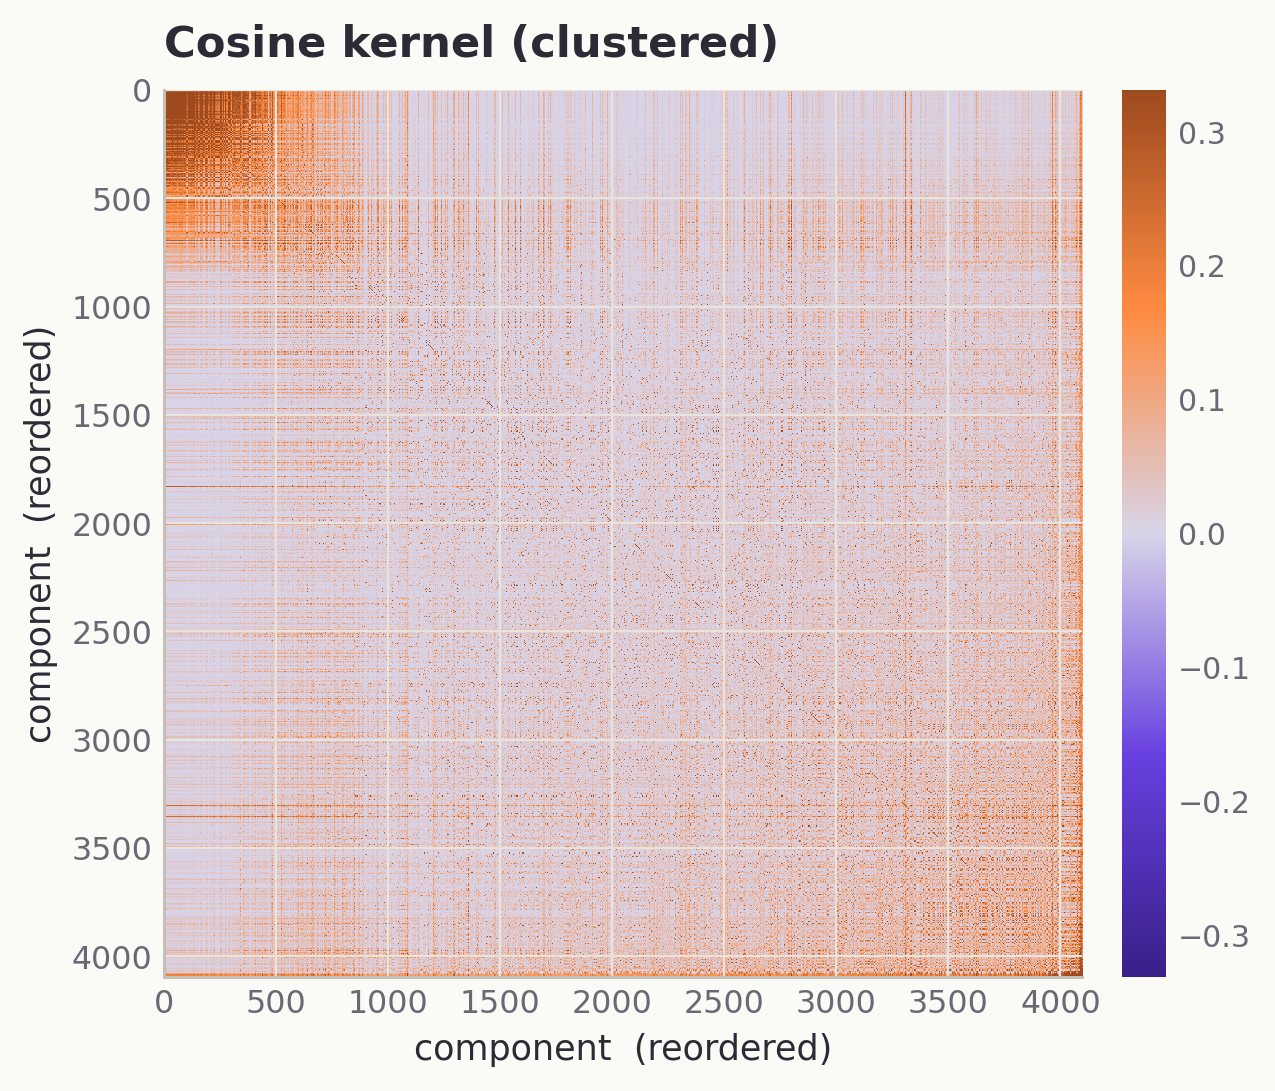
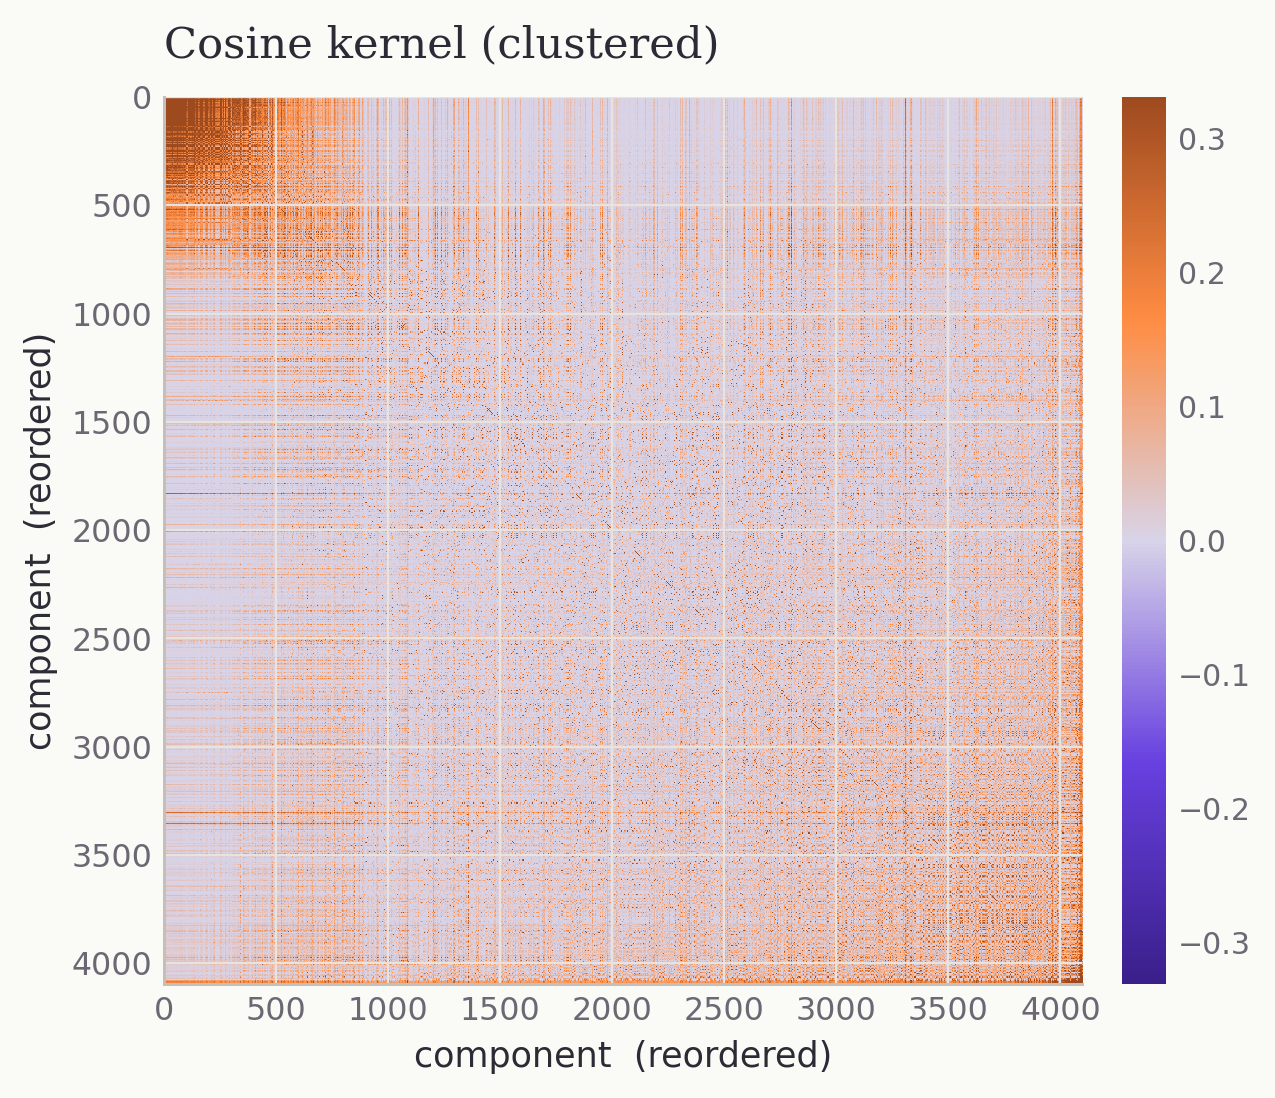
typography: serif regular-weight titles for editorial feel
The previous bold sans titles read as abrasive notebook output rather
than research-blog text. Softened across the whole plot suite:

- plotting._preferred_title_font: picks the best available serif
  (Source Serif Pro / IBM Plex Serif / DejaVu Serif fallback) and
  prepends it to font.serif so any helper that wants the editorial
  face can just pass family="serif".
- plotting._set_title / _suptitle: shared title-styling helpers
  applied across every plot function. Regular weight, ink colour,
  left-aligned, with extra titlepad for breathing room.
- All existing helper titles routed through _set_title; suptitle in
  the heatmap pair routed through _suptitle.
- per_layer.py titles likewise routed through plotting._set_title.

Real-data v2 plots regenerated; the same change is queued for the
QK sweep next.

diff --git a/vpd_gate_geometry/plotting.py b/vpd_gate_geometry/plotting.py
@@ -70,6 +70,21 @@ def _preferred_font() -> str:
     return "DejaVu Sans"
 
 
+def _preferred_title_font() -> str:
+    """Pick a softer, more editorial face for plot titles.
+
+    Sans-serif body + serif title is a common research-blog pattern
+    (e.g. Goodfire research posts). DejaVu Serif is the safe fallback
+    that ships with matplotlib's default font stack.
+    """
+    available = {f.name for f in fm.fontManager.ttflist}
+    for cand in ("Source Serif Pro", "Source Serif 4", "IBM Plex Serif",
+                 "Charter", "Georgia", "PT Serif", "DejaVu Serif"):
+        if cand in available:
+            return cand
+    return _preferred_font()
+
+
 GOODFIRE_RC: dict[str, object] = {
     "figure.dpi": 140,
     "savefig.dpi": 240,
@@ -82,10 +97,10 @@ GOODFIRE_RC: dict[str, object] = {
     "axes.spines.right": False,
     "axes.labelcolor":   PALETTE["ink"],
     "axes.labelsize":    10.5,
-    "axes.titlesize":    13,
-    "axes.titleweight":  "semibold",
+    "axes.titlesize":    12.5,
+    "axes.titleweight":  "regular",
     "axes.titlecolor":   PALETTE["ink"],
-    "axes.titlepad":     10,
+    "axes.titlepad":     12,
     "axes.titlelocation": "left",
     "axes.grid":         True,
     "axes.axisbelow":    True,
@@ -109,7 +124,38 @@ GOODFIRE_RC: dict[str, object] = {
 
 def set_style() -> None:
     plt.rcParams["font.family"] = _preferred_font()
+    # Put the preferred serif first in the serif stack so that any
+    # plot helper that wants an editorial title face can just call
+    # `ax.set_title(..., family="serif")` and pick it up automatically.
+    serif = _preferred_title_font()
+    plt.rcParams["font.serif"] = [serif] + plt.rcParams.get("font.serif", [])
     plt.rcParams.update(GOODFIRE_RC)
+
+
+# Title styling shared by every plot helper. Editorial serif when one is
+# available, regular weight, ink colour, left-aligned, with breathing room.
+_TITLE_KW: dict[str, object] = {
+    "family": "serif",
+    "weight": "regular",
+    "color": PALETTE["ink"],
+    "loc": "left",
+    "pad": 12,
+}
+_SUPTITLE_KW: dict[str, object] = {
+    "family": "serif",
+    "weight": "regular",
+    "color": PALETTE["ink"],
+    "x": 0.06,
+    "ha": "left",
+}
+
+
+def _set_title(ax, text: str, fontsize: float = 13) -> None:
+    ax.set_title(text, fontsize=fontsize, **_TITLE_KW)
+
+
+def _suptitle(fig, text: str, fontsize: float = 13.5) -> None:
+    fig.suptitle(text, fontsize=fontsize, **_SUPTITLE_KW)
 
 
 def _to_np(t: torch.Tensor) -> np.ndarray:
@@ -130,7 +176,7 @@ def plot_gate_activity_histogram(mean_per_component: torch.Tensor, out_path: Pat
     ax.set_yscale("log")
     ax.set_xlabel("mean causal importance per component (g̅)")
     ax.set_ylabel("# components  (log scale)")
-    ax.set_title("Component activity")
+    _set_title(ax, "Component activity")
     ax.margins(x=0)
     save_close(fig, out_path)
 
@@ -162,7 +208,7 @@ def plot_spectrum(
         ax.legend(loc="upper right", borderpad=0.4)
     ax.set_xlabel("eigenvalue index")
     ax.set_ylabel("eigenvalue")
-    ax.set_title(title)
+    _set_title(ax, title)
     ax.set_yscale("symlog", linthresh=1e-4)
     if annotation:
         ax.text(
@@ -210,13 +256,16 @@ def plot_kernel_real_vs_null(
             arr, cmap=DIVERGING_CMAP, vmin=-vmax, vmax=vmax,
             interpolation="nearest", aspect="equal",
         )
-        ax.set_title(panel_label, fontsize=11, color=PALETTE["ink"], loc="center")
+        ax.set_title(
+            panel_label, fontsize=11, family="serif", weight="regular",
+            color=PALETTE["muted"], loc="center",
+        )
         ax.set_xlabel("component  (reordered)")
     axes[0].set_ylabel("component  (reordered)")
     cb = fig.colorbar(im, ax=axes, fraction=0.025, pad=0.025)
     cb.outline.set_visible(False)
     cb.ax.tick_params(colors=PALETTE["muted"], labelsize=9)
-    fig.suptitle(title, fontsize=13, color=PALETTE["ink"], weight="semibold", x=0.05, ha="left")
+    _suptitle(fig, title)
     save_close(fig, out_path)
 
 
@@ -236,7 +285,7 @@ def plot_kernel_heatmap(
     fig, ax = plt.subplots(figsize=(5.4, 4.8))
     im = ax.imshow(arr, cmap=DIVERGING_CMAP, vmin=-vmax, vmax=vmax,
                    interpolation="nearest", aspect="auto")
-    ax.set_title(title)
+    _set_title(ax, title)
     ax.set_xlabel("component  (reordered)")
     ax.set_ylabel("component  (reordered)")
     cb = fig.colorbar(im, ax=ax, fraction=0.046, pad=0.04)
@@ -274,7 +323,7 @@ def plot_spectral_embedding(
         cb.ax.tick_params(colors=PALETTE["muted"], labelsize=9)
     ax.set_xlabel("e₁")
     ax.set_ylabel("e₂")
-    ax.set_title(title)
+    _set_title(ax, title)
     save_close(fig, out_path)
 
 
@@ -289,7 +338,7 @@ def plot_token_r2_histogram(r2: torch.Tensor, out_path: Path) -> None:
             color=PALETTE["ink"], fontsize=9.5, ha="left", va="top")
     ax.set_xlabel("R²  explained by token identity  (per component)")
     ax.set_ylabel("# components")
-    ax.set_title("Token-identity explained variance")
+    _set_title(ax, "Token-identity explained variance")
     ax.margins(x=0)
     save_close(fig, out_path)
 
@@ -305,7 +354,7 @@ def plot_spectrum_raw_vs_residual(
     ax.set_yscale("symlog", linthresh=1e-4)
     ax.set_xlabel("eigenvalue index")
     ax.set_ylabel("eigenvalue")
-    ax.set_title("Raw vs token-residualized spectrum")
+    _set_title(ax, "Raw vs token-residualized spectrum")
     ax.legend(loc="upper right", borderpad=0.4)
     save_close(fig, out_path)
 
@@ -330,7 +379,7 @@ def plot_lag_profile(
     )
     ax.set_xlabel("lag τ  (positions B − positions A)")
     ax.set_ylabel(label)
-    ax.set_title("Lagged co-importance profile")
+    _set_title(ax, "Lagged co-importance profile")
     save_close(fig, out_path)
 
 
@@ -385,7 +434,7 @@ def plot_lag_profile_with_null(
     ax.axvline(0, color=PALETTE["muted"], lw=0.7, linestyle=":", zorder=2)
     ax.set_xlabel("lag τ  (positions B − positions A)")
     ax.set_ylabel("|r|")
-    ax.set_title(title)
+    _set_title(ax, title)
     ax.legend(loc="upper right", borderpad=0.4)
     save_close(fig, out_path)
 
@@ -438,5 +487,5 @@ def plot_top_lagged_pair_heatmap(
     ax.invert_yaxis()
     ax.axvline(0, color=PALETTE["axis"], lw=0.7, zorder=1)
     ax.set_xlabel("signed |r| at best τ  (max statistic, see caveat)")
-    ax.set_title(f"Top {n} lagged component pairs")
+    _set_title(ax, f"Top {n} lagged component pairs")
     save_close(fig, out_path)

diff --git a/vpd_gate_geometry/per_layer.py b/vpd_gate_geometry/per_layer.py
@@ -103,7 +103,7 @@ def main(argv: list[str] | None = None) -> int:
         ax.set_yscale("symlog", linthresh=1e-4)
         ax.set_xlabel("eigenvalue index")
         ax.set_ylabel("eigenvalue")
-        ax.set_title(f"Layer {layer}: per-module cosine spectrum")
+        plotting._set_title(ax, f"Layer {layer}: per-module cosine spectrum")
         ax.legend(fontsize=8, ncol=2)
         plotting.save_close(fig, args.output_dir / f"layer_{layer}_spectra.png")
 
@@ -118,7 +118,7 @@ def main(argv: list[str] | None = None) -> int:
         ax.set_yscale("symlog", linthresh=1e-4)
         ax.set_xlabel("eigenvalue index")
         ax.set_ylabel("eigenvalue")
-        ax.set_title(f"{mod_type}: spectrum across layers")
+        plotting._set_title(ax, f"{mod_type}: spectrum across layers")
         ax.legend(fontsize=8)
         plotting.save_close(
             fig, args.output_dir / f"module_{mod_type.replace('.', '_')}_across_layers.png"
